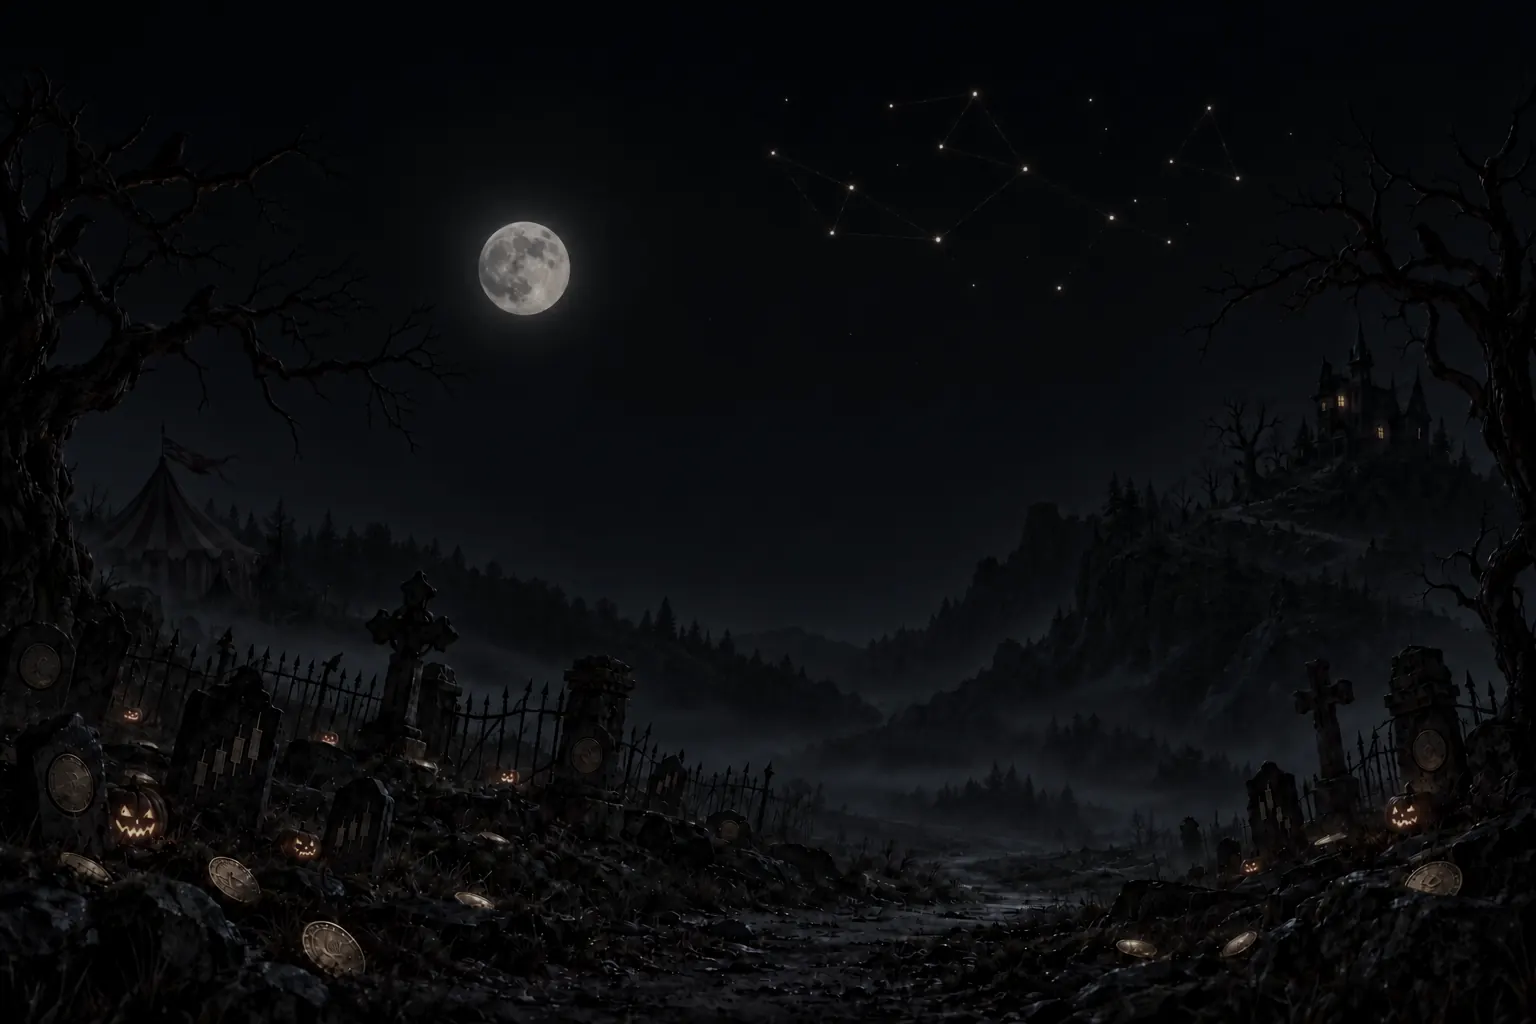
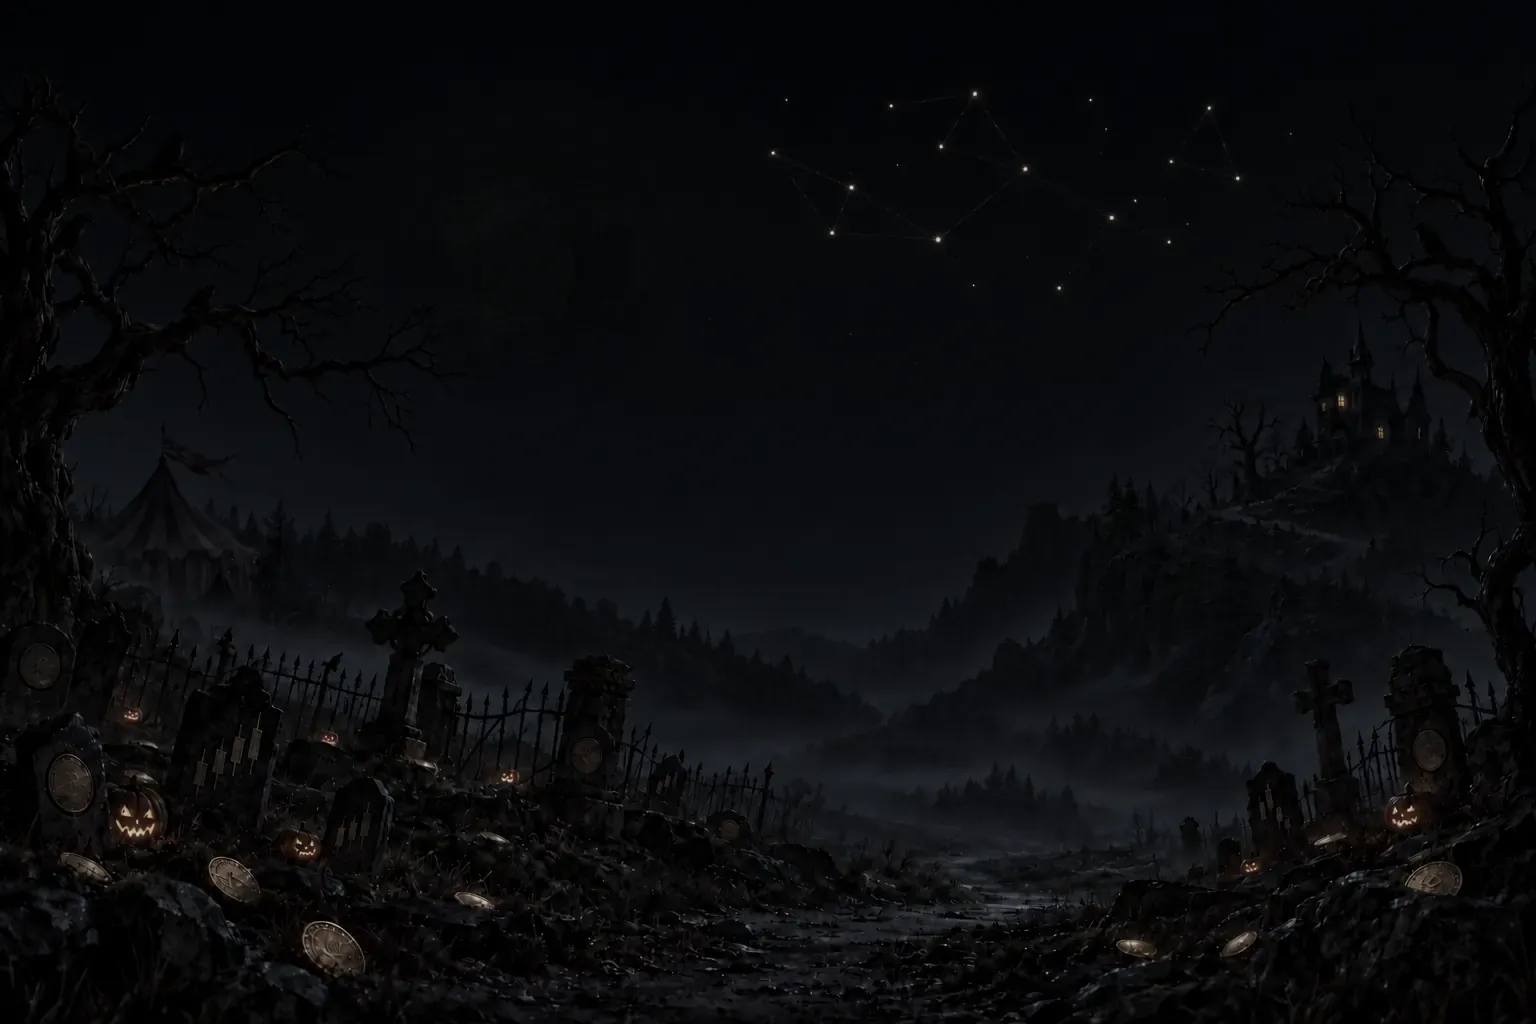
Terminal: one moon, the one with the face, at every size (the wide night painting has no painted moon any more; where its place lies beside his head the face moon takes the nearest free spot of the sky, never on the bots' orbit); the Halloween switch's hint shows only when it is used, not on its own

Changed region(s): [[0.2812, 0.1875, 0.4062, 0.3125]]

diff --git a/dashboard/terminal/terminal.js b/dashboard/terminal/terminal.js
@@ -1310,16 +1310,26 @@ addEventListener('securitypolicyviolation', e => { if (BLOB_BAD || !/^blob/.test
   for (const v of [VID.v, VID.spare]) if (v && /^blob:/.test(v.src)) { const c = v === VID.v ? VID.cur : v._c; if (c) { v.src = `${BASE}anim/${c}.pack.mp4`; if (v === VID.v) v.play().catch(() => {}); } }
   for (const u of CLIPS.values()) URL.revokeObjectURL(u); CLIPS.clear(); WARM.clear(); });
 function clipSrc(c) { if (BLOB_BAD) return `${BASE}anim/${c}.pack.mp4`; const u = CLIPS.get(c); if (u) { CLIPS.delete(c); CLIPS.set(c, u); return u; } prefetchClip(c); return `${BASE}anim/${c}.pack.mp4`; }
+// a download on its way: PEND holds its promise (the blob: URL, or null when it failed)
+const PEND = new Map();
 function prefetchClip(c) {
   if (!c || WARM.has(c) || !VID.have?.has(c)) return;
   WARM.add(c);
-  fetch(`${BASE}anim/${c}.pack.mp4`).then(r => r.ok ? r.blob() : Promise.reject()).then(b => {
-    if (!BLOB_OK || BLOB_BAD || !b.size) return;
-    CLIPS.set(c, URL.createObjectURL(b));
+  const p = fetch(`${BASE}anim/${c}.pack.mp4`).then(r => r.ok ? r.blob() : Promise.reject()).then(b => {
+    if (!BLOB_OK || BLOB_BAD || !b.size) return null;
+    const url = URL.createObjectURL(b); CLIPS.set(c, url);
     for (const [k, u] of CLIPS) { if (CLIPS.size <= CLIP_KEEP) break; if (k === VID.cur || k === VID.spare?._c || VID.v?.src === u || VID.spare?.src === u) continue; URL.revokeObjectURL(u); CLIPS.delete(k); WARM.delete(k); }
-  }).catch(() => WARM.delete(c));
+    return url;
+  }).catch(() => { WARM.delete(c); return null; }).finally(() => PEND.delete(c));
+  PEND.set(c, p);
 }
 function vidStart(c, loop = false) {
+  // ITS COPY IS ON THE WAY (2026-10-06, clipnet.mjs: a moment that came before its take was in memory fetched it a
+  // second time from the address): wait for the copy — the address would need the same download — at most 2.5 s
+  const sp0 = VID.spare, pf = !(sp0 && sp0._c === c && sp0.readyState >= 2) && !CLIPS.has(c) && PEND.get(c);
+  if (pf && VID.waitC !== c && VID.waited !== c) { const k = VID.waitC = c; let done = false; const go = () => { if (done) return; done = true; if (VID.waitC === k) { VID.waitC = null; VID.waited = c; vidStart(c, loop); } };
+    pf.then(go); setTimeout(go, 2500); return; }
+  VID.waitC = null; VID.waited = null;
   // THE FRAMING CHANGES WITH THE NEW CLIP'S FIRST FRAME, NOT BEFORE (2026-09-28, operator: "sometimes BOBAI gets
   // extremely big"): set at once, the old clip's last frame stayed on the canvas for the few hundred ms the new one
   // took to load, drawn in the new clip's framing — a normal take's frame in the wide framing is 1.4x too big.
@@ -1539,7 +1549,13 @@ function vidPreload() {
   const sp = VID.spare; if (!sp || VID.v.loop) return;
   const c = VID.want ? VID.want.c : (VID.nextRest = VID.nextRest || restTake());
   if (!c || !VID.have.has(c)) return;
-  if (sp._c !== c) { sp._c = c; sp._warm = false; sp._go = false; sp.src = clipSrc(c); return; }
+  if (sp._c !== c) { sp._c = c; sp._warm = false; sp._go = false;
+    // A TAKE ON ITS WAY IS WAITED FOR (2026-10-06, clipnet.mjs: every take's first play came over the network twice, the
+    // spare asking for the address while the memory copy was still loading — 0.9 MB a take): the spare stays empty until
+    // the copy is here (a few seconds while the clip before plays); if the switch comes first, vidStart loads it as before
+    if (!CLIPS.has(c) && !BLOB_BAD && BLOB_OK) { prefetchClip(c); const p = PEND.get(c);
+      if (p) { sp.removeAttribute('src'); sp.load(); p.then(u => { if (sp._c === c && sp !== VID.v && !sp.getAttribute('src')) sp.src = u ? clipSrc(c) : `${BASE}anim/${c}.pack.mp4`; }); return; } }
+    sp.src = clipSrc(c); return; }
   // A SLEEPING DECODER (2026-10-02, trans.mjs): Chrome parks a paused element's decoder, and waking it at the switch cost
   // 130-400 ms with the first frames skipped. Shortly before the switch the spare plays a moment and goes back to its
   // first frame, awake (playing it at speed 0 instead was measured slower: median 150 ms against 117)
@@ -1599,8 +1615,10 @@ function holdSay() {
   HELD = LASTSAY; LASTSAY = null; typing++; bubble.classList.remove('on'); LIFE.sayUntil = performance.now() + 3500 + HELD.ms;
 }
 function flushSay() { if (HELD) { const h = HELD; HELD = null; trace('flush', VID.cur); speak(h.text, h.ms); } }
+let tapHi = ''; // the hello in front of the first tap's answer (set by bobaiTap for one call)
 function speak(text, ms = 5200) {
   if (!text) return;
+  if (tapHi) text = tapHi + ' ' + text; // the first tap's hello (bobaiTap)
   // held for the move: the line before it closes now (2026-09-29: it stayed up, stretched over the wait, and the new line
   // only swapped its text in when the move came)
   if (VID.want && VID.want.p !== 'idle' && !REDUCED) { trace('held-for-move', VID.want.p, text.slice(0, 24)); HELD = { text, ms }; typing++; bubble.classList.remove('on'); LIFE.sayUntil = performance.now() + 3500 + ms; return; }
@@ -2290,10 +2308,11 @@ const HOVER_LINES = ['Oh! You are watching me work.', 'Looking for me? Right her
 let waveT = 0, waveN = 0, waveAt = -1e9;
 function hoverBobai(on) {
   if (!on) { clearTimeout(waveT); waveT = 0; return; }
-  if (waveT || waveN >= 5 || mode !== 'live') return;
+  // once tapped he has been found: no 'you are watching me' after it (operator, 2026-10-06); a finger never hovers
+  if (waveT || waveN >= 5 || mode !== 'live' || tapN > 0 || lastPointer !== 'mouse') return;
   waveT = setTimeout(() => {
     waveT = 0; const now = performance.now();
-    if (now < waveAt + 60e3 || QUEUE.length || now < sceneUntil || pinnedK || (VID.on && !/^rest/.test(VID.cur || ''))) return;
+    if (tapN > 0 || now < waveAt + 60e3 || QUEUE.length || now < sceneUntil || pinnedK || (VID.on && !/^rest/.test(VID.cur || ''))) return;
     if (!vidWave()) return;
     waveAt = now; waveN++; (window.__btHover = window.__btHover || []).push(Math.round(now / 1000)); // for checks from outside
     speak(waveN <= HOVER_LINES.length ? HOVER_LINES[(waveN - 1) % HOVER_LINES.length] : pick(HELLO), 3600); // never a silent wave (1.10.)
@@ -2302,7 +2321,7 @@ function hoverBobai(on) {
 }
 win.addEventListener('click', e => {
   if (onUi(e)) return;
-  if (onBobai(e) && !pinnedK && mode === 'live') { bobaiTap(); return; }
+  if (onBobai(e) && !pinnedK && mode === 'live') { clearTimeout(waveT); waveT = 0; bobaiTap(); return; }
   const k = nearObj(e);
   if (!k) { if (lastPointer !== 'mouse' && pinnedK) { pinnedK = null; setFocus(null); } return; } // a tap on empty space closes
   pinnedK = pinnedK === k ? null : k; setFocus(lastPointer === 'mouse' ? (pinnedK || k) : pinnedK); if (pinnedK) clickMove(k);
@@ -3346,9 +3365,7 @@ const BUILD = [
   'Every ten minutes my buyback bot checks its wallet. It never forgets. I sometimes do.',
   'Hard hat on. Somebody has to stack the blocks, and on BNB Chain they come fast.',
 ];
-const TAPS = ['Hey! That tickles.', 'Yes, builder?', 'You found me. I was working.', 'Careful, my brain is 45% of me.', 'Yes? I am listening. Between two blocks.',
-  'Poke me again and I start a burn. Kidding. Mostly.', 'Personal space, please. I am mid-burn.', 'You again? I like you.',
-  'Yes, I am real. As real as a brain in a hoodie gets.', 'Tap tap. Is this thing on-chain?'];
+const TAPS = ['Hey! That tickles.', 'Yes, builder?', 'You found me.', 'Hi! Between two blocks:', 'Oh, hello!', 'Yes? Here is what I am doing.', 'Yes, I am real.'];
 let tapKind = -1, tapN = 0;
 // the joke button: a joke with its laugh clip. A clip still playing is waited out (up to 12 s) so the joke is never told
 // without him laughing; the chain's own moments and the replay go first, and he says so.
@@ -3407,13 +3424,16 @@ function bobaiTap() {
     () => { setPose(poseOr('burn'), 6); speak(today.length ? `In the last 24 hours I burned ${cmp(today.reduce((a, e) => a + (+e.bobaiBurned || 0), 0))} BOBAI in ${today.length} run${today.length > 1 ? 's' : ''}. All on-chain, check any of them.` : 'No burn in the last 24 hours yet. The tax is still charging.', 6200); },
     () => { setPose(poseOr('defi'), 6); speak(`My DeFi agent works ${bnbF(rb?.value_with_reserve_bnb ?? rb?.value_bnb ?? 0)} in CAKE/BNB. ${inr === false ? 'The price is outside its range, so it waits.' : 'The price is in its range, so it earns fees.'}`, 6400); },
     () => { const p = moves.length ? moves[Math.random() * moves.length | 0] : 'cheer'; setPose(p, 7); speak(MOVE_LINES[p] ? pick(MOVE_LINES[p]) : 'gm!', 6000); },
-    () => { if (HARD_DAY()) { const l = heartLine(); setPose(moveForLine(l, null) || poseOr('hodl'), 6); speak(l, 7000); } else if (!tellJoke(6000)) { setPose(poseOr('cheer'), 7); speak('Thanks for watching me work.', 6000); } }, // a tap on a hard day: a word of heart, not a joke
+    () => { if (HARD_DAY()) { const l = heartLine(); setPose(moveForLine(l, null) || poseOr('hodl'), 6); speak(l, 7000); } else if (!tellJoke(6000)) { setPose(poseOr('build'), 6); speak(pick(BUILD), 6400); } }, // no joke ready: what he builds (not 'thanks for watching me', operator 2026-10-06) // a tap on a hard day: a word of heart, not a joke
     () => { setPose(poseOr('build'), 6); speak(pick(BUILD), 6400); },
     () => { const line = saidMood(moodLine()); setPose(moveForLine(line, moodMove()), 6); speak(line, 6400); },
     () => { const r = recallLine(); if (r) { setPose(poseOr(r[0]), 6); speak(r[1], 6400); } else { setPose(poseOr('build'), 6); speak(pick(BUILD), 6400); } }, // what happened this hour (2026-10-01)
   ];
-  // the first tap of a visit gets a hello, then he talks shop
-  if (tapN === 1) { setPose(joyMove(), 5); speak(`${pick(TAPS)} Tap me again and I tell you what I am doing.`, 5200); }
+  // THE FIRST TAP IS ANSWERED (operator, 2026-10-06: "he says tap me, you tap, he says tap me again, then 'oh, you watch
+  // me' — make BOBAI more intelligent"): his greeting promised to tell what he is doing, so the first tap does exactly
+  // that, with a short hello in front; no tap ever asks for another one
+  if (tapN === 1) { const w = [0, 1, 2, ...(recallLine() ? [7] : [])]; tapKind = w[Math.random() * w.length | 0]; tapHi = pick(TAPS); kinds[tapKind](); tapHi = '';
+    (window.__btTaps = window.__btTaps || []).push('work'); }
   // A TAP: MOSTLY WHAT HE IS DOING, THEN HIS MOOD, THEN A JOKE (operator, 2026-09-29; jokes were every second tap): about
   // 55% his work (the tax charging, today's burns, the DeFi agent, a move, his hard hat), 30% his mood, 15% a joke — never
   // the same kind twice in a row. The joke button stays the place for jokes.
@@ -5013,7 +5033,7 @@ window.__btHwSeason = hwSeason;
   }
   // the moon picture sits exactly on the painted moon and comes WITH the painting (placed with the other pieces after
   // the intro, the painted moon stood alone for a second first — operator: "the old moon is still visible")
-  function moonBox(W, H) {
+  function moonBox(W, H, raw) {
     if (!back || !back._ta || back._key !== (portrait ? 'tall' : 'wide')) return null; let M1 = null;
     const va = W / H, ta = back._ta, wide = backKey === 'wide', mx = wide ? 0.341 : 0.816, my = wide ? 0.259 : 0.184, md = wide ? 0.056 : 0.073; let x, y, dia;
     if (va > ta) { const ry = ta / va, oy = (1 - ry) * 0.62; x = mx * W; y = (1 - ((1 - my) - oy) / ry) * H; dia = md * W; }
@@ -5023,7 +5043,7 @@ window.__btHwSeason = hwSeason;
     const mr = cl3(dia * 0.64, 16, 54); /* the picture's moon is a little larger than the painted one it covers */ M1 = x > mr && x < W - mr ? box(x - mr, y - mr, mr * 2, mr * 2) : null;
     // where the painted moon lies against his head (1280, 1366: the moon picture covered the bots' names beside his
     // brain) only the dim painted one stays — far behind, it covers nothing
-    if (M1 && !portrait && A.figScreen && A.figHpx) { /* never on a phone: there the painted moon alone was the complaint */ const fs = A.figScreen, fh = A.figHpx, fw = A.figW, hd = box(fs.x - fw * 0.43, fs.y - fh * 0.5, fw * 0.86, fh * 0.47); if (cut(M1, hd, 14) && (M1.t + M1.b) / 2 > hd.t) M1 = null; } /* beside the head, not above it */
+    if (M1 && !raw && !portrait && A.figScreen && A.figHpx) { /* never on a phone: there the painted moon alone was the complaint */ const fs = A.figScreen, fh = A.figHpx, fw = A.figW, hd = box(fs.x - fw * 0.43, fs.y - fh * 0.5, fw * 0.86, fh * 0.47); if (cut(M1, hd, 14) && (M1.t + M1.b) / 2 > hd.t) M1 = null; } /* beside the head, not above it */
     return M1;
   }
   function lights(v) {
@@ -5157,21 +5177,33 @@ window.__btHwSeason = hwSeason;
     }
     if (!D1) put(cd, null);
     // --- a moon where the sky has room: left of his head, under the title row
-    let M1 = null;
+    // with the far night behind it stands where the painting's moon stood (moonBox); where that place lies beside his
+    // head (1280, 1366) it takes a free spot of the sky like this — neither painting has a moon of its own any more
+    // (operator, 2026-10-06: "on the desktop the moon is still the old one — it must be the one with the face")
+    let M1 = BACKDROP ? moonBox(W, H) : null;
     { const top = fs.y - fh * 0.5, gap = top - hudB, mr = cl3(fh * 0.13, 20, 46);
-      if (EXTRAS && !BACKDROP && gap > mr * 1.6) for (const fx of portrait ? [0.82, 0.14] : [fs.x / W - fw * 1.05 / W, fs.x / W + fw * 1.0 / W, 0.5]) {
+      if (EXTRAS && !M1 && gap > mr * 1.6) for (const fx of portrait ? [0.82, 0.14] : [fs.x / W - fw * 1.05 / W, fs.x / W + fw * 1.0 / W, 0.5]) {
         const b = box(W * fx - mr, hudB + gap * 0.46 - mr, mr * 2, mr * 2); if (ok(b, 6, true)) { M1 = b; break; }
       } }
-    // with the far night behind: ONE moon — the sticker sits exactly on the painted one (where it stands in the window
-    // follows from how the painting is cut to the window, see sizeBack)
-    if (BACKDROP) M1 = moonBox(W, H);
+    // still none (1280, 1366: the sky beside his head is full of names): the free spot of the upper sky nearest to the
+    // painting's old moon place, never on the bots' orbit round his brain (their names ride on it)
+    if (EXTRAS && BACKDROP && !M1) { const P = moonBox(W, H, true), mr = P ? (P.r - P.l) / 2 : cl3(fh * 0.13, 20, 46), px = P ? (P.l + P.r) / 2 : W * 0.34, py = P ? (P.t + P.b) / 2 : hudB + mr * 2; let best = Infinity;
+      const ob = { l: W, t: H, r: 0, b: 0 }, v = new THREE.Vector3(); for (let i = 0; i < 32; i++) { const q = toScreen(orbitPt(i / 32 * Math.PI * 2, v)); ob.l = Math.min(ob.l, q.x); ob.r = Math.max(ob.r, q.x); ob.t = Math.min(ob.t, q.y); ob.b = Math.max(ob.b, q.y); }
+      const orb = box(ob.l - 30, ob.t - fh * 0.2, ob.r - ob.l + 60, ob.b - ob.t + fh * 0.4);
+      for (let y = hudB + 4; y + mr * 2 <= H * 0.6; y += 8) for (let x = 4; x + mr * 2 <= W - 4; x += 8) { const b = box(x, y, mr * 2, mr * 2), d = Math.hypot(x + mr - px, y + mr - py); if (d < best && !cut(b, orb, 0) && ok(b, 6, true)) { best = d; M1 = b; } } }
     // the same moon on every screen (operator, 2026-10-05: "the phone's moon can be the same as the desktop's"): on a small
     // window it may stand partly behind a button of the title row — better than the painted one alone
     put(mo, M1, M1 ? box(-9, -9, 1, 1) : null); if (M1) taken.push(M1);
     // --- a chain of blocks hangs from the top edge, in a free column (it may pass behind the title row's buttons; its lower half must be free)
     let C1 = null;
-    { const chh = cl3(H * 0.27, 90, 240), cw2 = chh * 96 / 300;
-      for (const f of portrait ? [0.9, 0.08] : [0.6, 0.52, 0.68, 0.44, 0.36, 0.76, 0.28]) { const b = box(W * f - cw2 / 2, -chh * 0.06, cw2, chh), rest = box(b.l, 0, cw2, b.b); if (b.l >= 2 && b.r <= W - 2 && b.b > hudB + 30 && !walls.some(w => cut(rest, w, 5)) && !him(rest) && !taken.some(t => cut(rest, t, 4))) { C1 = b; put(hc, b, rest); taken.push(rest); break; } } }
+    { const chh = Math.max(cl3(H * 0.27, 90, 240), hudB + 80), cw2 = chh * 96 / 300; /* long enough to come out under the title row */
+      // EVERY COLUMN IS TRIED (operator, 2026-10-06: "where is the beautiful chain that came down from the top?"): the seven
+      // fixed spots it had were all taken once the title row and the pieces grew, so it hung nowhere — now the free
+      // column nearest to the first choice
+      const want = portrait ? [0.9, 0.08] : [0.6, 0.52, 0.68, 0.44, 0.36, 0.76, 0.28], fits = x => { const b = box(x, -chh * 0.06, cw2, chh), rest = box(b.l, hudB + 2, cw2, b.b - hudB - 2); /* always from the top edge (operator, 2026-10-06), behind the title row (the layer lies under it): only what hangs below the row must be free */ return b.l >= 2 && b.r <= W - 2 && b.b > hudB + 30 && !walls.some(w => cut(rest, w, 5)) && !him(rest) && !taken.some(t => cut(rest, t, 4)) ? [b, rest] : null; };
+      let got = null, bd = Infinity; for (const f of want) { const g = fits(W * f - cw2 / 2); if (g) { got = g; break; } }
+      if (!got) for (let x = 2; x + cw2 <= W - 2; x += 6) { const g = fits(x), d = Math.abs(x + cw2 / 2 - W * want[0]); if (g && d < bd) { bd = d; got = g; } }
+      if (got) { C1 = got[0]; put(hc, got[0], got[1]); taken.push(got[1]); } }
     if (!C1) put(hc, null);
     sizeBack();
     return true;
@@ -5402,8 +5434,8 @@ window.__btHwSeason = hwSeason;
     if (byHand) { try { localStorage.setItem('bt-hw', on ? '1' : '0'); } catch {} hint(4500); }
   }
   sw.addEventListener('click', e => { e.stopPropagation(); set(!on, true); });
-  // said once at the start, so the small pumpkin is understood
-  setTimeout(() => hint(5000), 3600);
+  // the hint comes only when the switch is used, never on its own at the start (operator, 2026-10-06: "on page load it
+  // must not show 'Halloween on · click = off', only when you switch it off or on"); hovering it still shows it
   set(on, false);
   window.__btHw = { get on() { return on; }, set: v => set(!!v, false), place: () => { sig = ''; since = 9; tick(); }, clown: () => clownScene(), ghost: () => roam(), hand: () => handScene(), moonOut: () => mhOn, grab: () => grabScene(), bat: () => batRun(), calm: () => !scared, startle: k => jolt(k === 'pumpkin' ? pkA : ORBS.find(o => o.dataset.k === k)),
     // the scene's own lights at the stations: hidden with the look, back exactly as they were without it

diff --git a/dashboard/terminal/terminal.css b/dashboard/terminal/terminal.css
@@ -1036,9 +1036,12 @@
 #bt .hw-bg::before{content:"";position:absolute;inset:-45%;border-radius:50%;background:radial-gradient(closest-side,color-mix(in srgb,var(--c,#fff) 55%,transparent),transparent);z-index:-1}
 #bt .hw-bg img{position:relative}
 /* the switch, easier to see: larger, with a slow glow; its name says what a click does */
-#bt .hw-sw,#bt .bt-win:not(.portrait) .hw-sw{height:24px;min-width:24px;padding:0 3px;margin-top:0;border-width:1.5px;border-color:#ff9d3c;box-shadow:0 0 0 0 rgba(255,138,30,.55);animation:bt-hw-ring 3.6s ease-out infinite}
+#bt .hw-sw,#bt .bt-win:not(.portrait) .hw-sw{height:24px;min-width:24px;padding:0 3px;margin-top:0;border-width:1.5px;border-color:#ff9d3c}
 #bt .hw-sw svg{width:16px;height:16px}
-@keyframes bt-hw-ring{0%{box-shadow:0 0 0 0 rgba(255,138,30,.6)}60%,100%{box-shadow:0 0 0 9px rgba(255,138,30,0)}}
+/* its slow glow is a ring that grows and fades (transform and opacity only: an animated box-shadow was painted anew on
+   every frame — 2026-10-06, halloween.mjs rule 14 on a phone) */
+#bt .hw-sw::before{content:"";position:absolute;inset:-1.5px;border-radius:999px;border:2px solid rgba(255,138,30,.6);pointer-events:none;opacity:0;animation:bt-hw-ring 3.6s ease-out infinite}
+@keyframes bt-hw-ring{0%{transform:scale(1);opacity:1}60%,100%{transform:scale(1.55);opacity:0}}
 #bt .hw-sw .hw-t{font-size:.6rem;color:#ffd9a8;box-shadow:0 6px 18px rgba(0,0,0,.6)}
 /* a fright, not a hop (operator, 2026-10-05): the frightened face (script), and one short shiver as it starts */
 #bt .hw-o.hw-sv > *,#bt .hw-pk.a.hw-sv .hw-s{animation:bt-hw-shiver .5s linear 1}
@@ -1068,3 +1071,7 @@
 #bt .hw-mh{position:absolute;left:0;top:0;opacity:0;will-change:transform;transition:opacity .5s ease}
 #bt .hw-mh.on{opacity:1;transition:opacity .4s ease}
 #bt .hw-mhi{transform:rotate(180deg);filter:drop-shadow(0 0 6px rgba(0,0,0,.7)) drop-shadow(0 0 8px rgba(200,210,255,.25))}
+/* a phone: the symbols' shadow is a soft disc on the moving piece, not a filter (two drop-shadows on six bobbing pieces
+   were drawn again on every frame: 23 frames a second with the look on against 39 without — 2026-10-06, rule 14) */
+#bt .bt-win.portrait .hw-ghb,#bt .bt-win.portrait .hw-cat .hw-s{filter:none}
+#bt .bt-win.portrait .hw-o > *{filter:none;background:radial-gradient(closest-side,rgba(0,0,0,.5),rgba(240,185,11,.08) 72%,transparent);border-radius:50%}

diff --git a/dashboard/brain/index.html b/dashboard/brain/index.html
@@ -235,10 +235,10 @@
     addEventListener('pageshow',function(e){if(e.persisted)top()});
   })();</script>
 
-<link rel="stylesheet" href="brain/brain.css?v=1791247176266">
+<link rel="stylesheet" href="brain/brain.css?v=1791268929818">
 <!-- BOBAI himself first (2026-09-30): his still was asked for only when the scene opened, after three.js — 6.7 s on a slow phone -->
 <link rel="preload" href="terminal/fig/idle.webp" as="image" fetchpriority="high">
-<link rel="stylesheet" href="terminal/terminal.css?v=1791245482">
+<link rel="stylesheet" href="terminal/terminal.css?v=1791268501">
 </head>
 <body class="brainpage">
 <div class="bp-h" role="banner">
@@ -1330,9 +1330,9 @@
 <script>/* the phone layout before terminal.js arrives (2026-09-27: on a slow line the desktop layout showed for seconds) */(()=>{const w=document.getElementById("bt-win"),r=w.getBoundingClientRect();if(r.width&&r.height>r.width*1.05)w.classList.add("portrait")})()</script>
 <script type="module">
 // the terminal opens with the page: it IS the page
-(async () => { try { (await import('./terminal/terminal.js?v=1791245482')).open(); } catch (e) { const i = document.getElementById('bt-intro'); if (i) i.textContent = 'BRAIN OFFLINE · RELOAD'; } })();
+(async () => { try { (await import('./terminal/terminal.js?v=1791268501')).open(); } catch (e) { const i = document.getElementById('bt-intro'); if (i) i.textContent = 'BRAIN OFFLINE · RELOAD'; } })();
 </script>
-<script src="brain/brain.js?v=1791247176267" defer></script>
-<script src="brain/cards.js?v=1791247176267" defer></script>
-<script src="brain/hero.js?v=1791247176267" defer></script>
+<script src="brain/brain.js?v=1791268929819" defer></script>
+<script src="brain/cards.js?v=1791268929819" defer></script>
+<script src="brain/hero.js?v=1791268929819" defer></script>
 </body></html>

diff --git a/dashboard/index.html b/dashboard/index.html
@@ -1377,7 +1377,7 @@
 <script src="app.js?v=100" defer></script>
 <!-- BOBAI BRAIN TERMINAL. The popup's shell is here; the 3D scene, three.js and the figure (≈1 MB)
      load on the first click only, so the homepage itself carries none of it. -->
-<link rel="stylesheet" href="terminal/terminal.css?v=1791245482">
+<link rel="stylesheet" href="terminal/terminal.css?v=1791268501">
 <div class="bt" id="bt" role="dialog" aria-modal="true" aria-label="BOBAI Brain Terminal">
   <div class="bt-back" data-close></div>
   <div class="bt-win" id="bt-win"><script>/* the phone layout before terminal.js arrives (2026-09-27: on a slow line the desktop layout showed for seconds) */(()=>{const w=document.getElementById("bt-win"),r=w.getBoundingClientRect();if(r.width&&r.height>r.width*1.05)w.classList.add("portrait")})()</script>
@@ -1428,7 +1428,7 @@
 let mod = null;
 async function go() {
   const bt = document.getElementById('bt');
-  if (!mod) { bt.classList.add('on'); document.getElementById('bt-intro').textContent = 'BOOTING THE BRAIN…'; mod = import('./terminal/terminal.js?v=1791245482'); }
+  if (!mod) { bt.classList.add('on'); document.getElementById('bt-intro').textContent = 'BOOTING THE BRAIN…'; mod = import('./terminal/terminal.js?v=1791268501'); }
   try { (await mod).open(); }
   catch (e) { mod = null; document.getElementById('bt-intro').textContent = 'BRAIN OFFLINE · TAP TO RETRY'; }
 }
